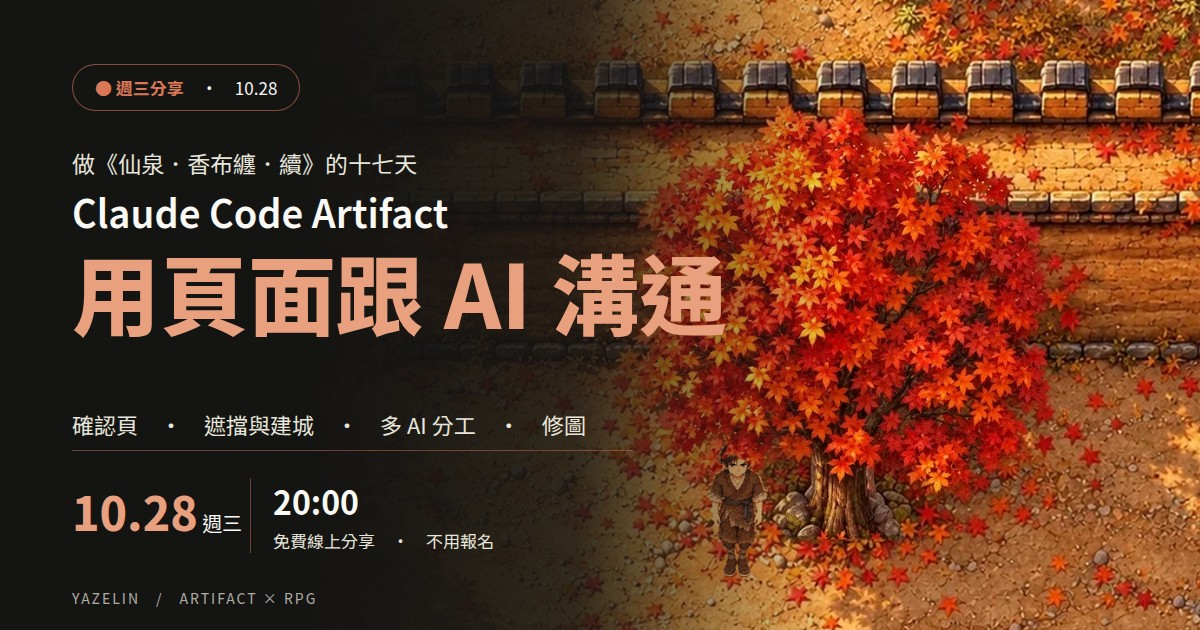
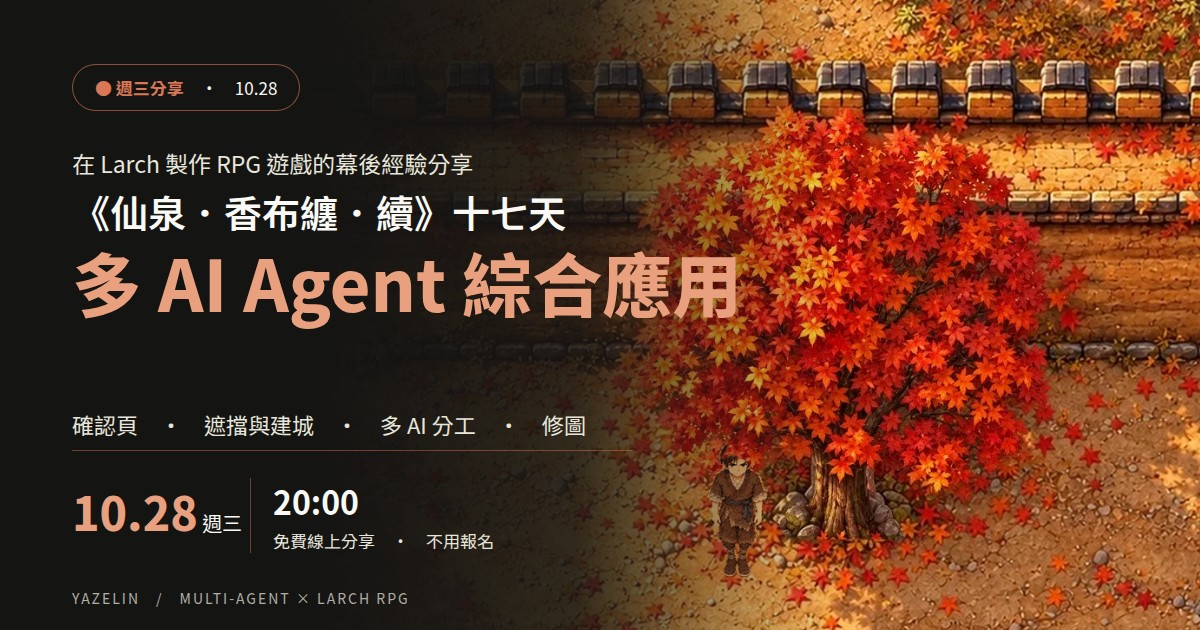
活動頁：10/28 題目改為多 AI Agent 綜合應用，換配圖

Changed region(s): [[0.0617, 0.2413, 0.6167, 0.5429], [0.1542, 0.9349, 0.3392, 0.9651]]

diff --git a/events/artifact-rpg-2026-10-28.md b/events/artifact-rpg-2026-10-28.md
@@ -1,6 +1,6 @@
 ---
 layout: event
-title: 用頁面跟 AI 溝通：做 RPG 時的確認頁與多 AI 分工
+title: 多 AI Agent 綜合應用：在 Larch 製作 RPG 遊戲的幕後經驗分享
 subtitle: 《仙泉．香布纏．續》十七天，怎麼讓 AI 做頁面給我按、怎麼把活分給好幾個 AI。講義與確認頁起手檔帶回去用。
 permalink: /events/artifact-rpg-2026-10-28/
 event_batch: artifact-rpg-2026-10-28
@@ -15,7 +15,7 @@ event_closed: true
 form_closed_heading: 免費直播，不用報名
 form_closed_message: 10 月 28 日（週三）晚上 8 點直接進入 Google Meet。開播連結也會在 AI 許願池 LINE 社群公布，加入社群就收得到。
 event_community_url: https://line.me/ti/g2/xshYqZH3DLsqO8XNipmG3abL_KM6DORU7da5Lw?utm_source=invitation&utm_medium=link_copy&utm_campaign=artifact-rpg-2026-10-28
-share-description: 10/28 週三直播：做 RPG 時用 Claude Code Artifact 跟 AI 溝通，確認地圖遮擋、建城、牆與門，也分享 Claude、codex 與其他 AI 怎麼分工。講義與確認頁起手檔帶回去用。
+share-description: 10/28 週三直播：多 AI Agent 綜合應用。在 Larch 製作 RPG 遊戲的幕後，用 Artifact 確認地圖遮擋、建城、牆與門，也分享 Claude、codex 與其他 AI 怎麼分工。講義與確認頁起手檔帶回去用。
 ---
 
 > **10/28（三）20:00 免費線上分享，不用報名。**
